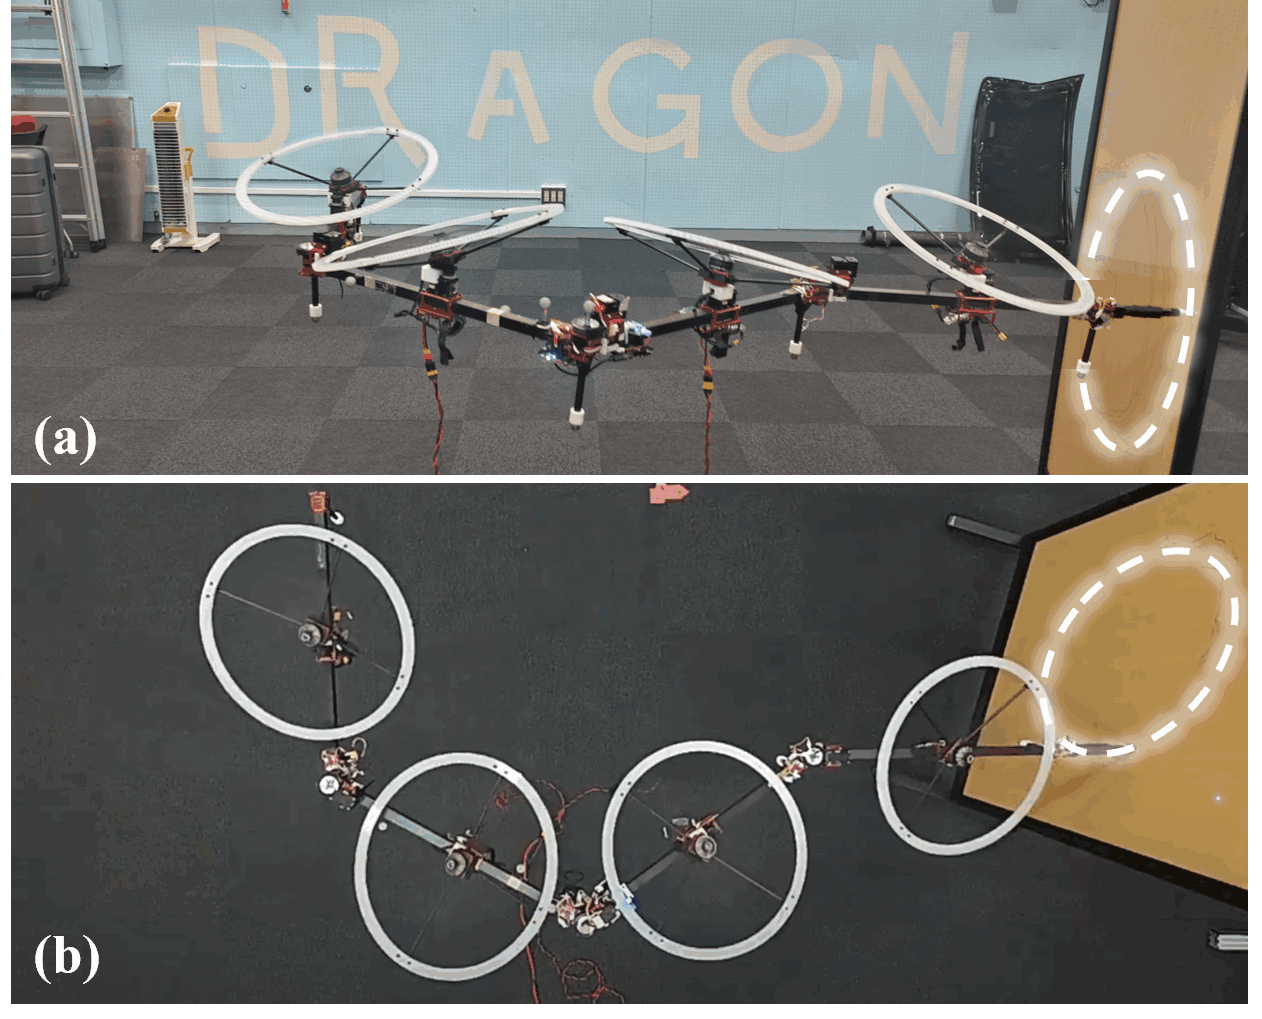
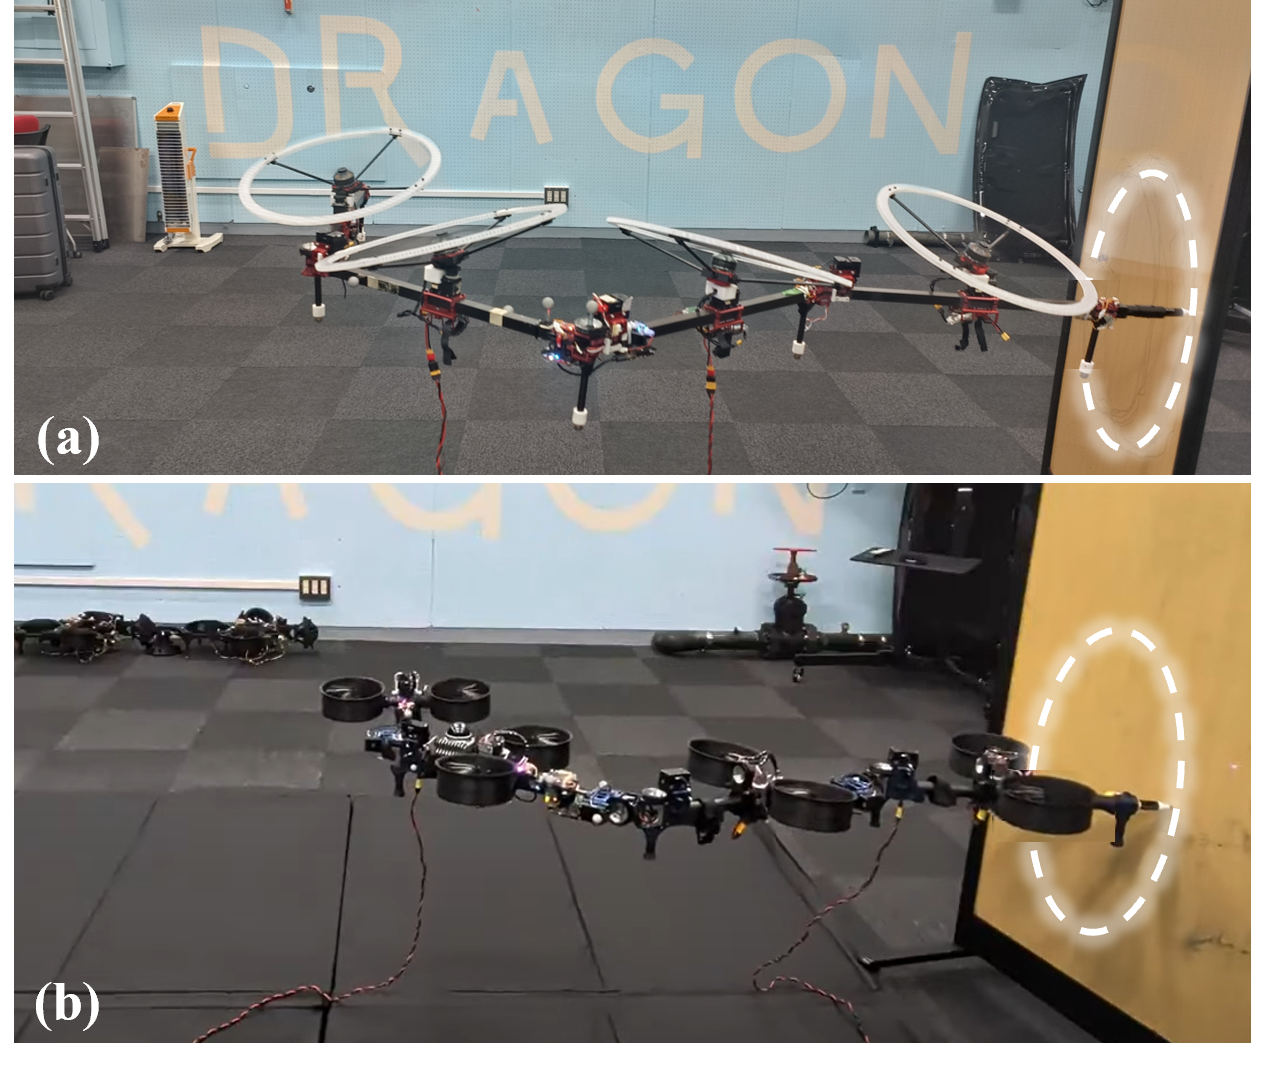
Upload some figures

diff --git a/6_experiment.tex b/6_experiment.tex
@@ -6,7 +6,7 @@ In this chapter, we will demonstrate the effects of the proposed framework. In o
 \subsection{2D Multi-Link aerial robot Hydrus Xi}
 In the experiment, we use the robot show in Fig.~\ref{fig:robot_hydrus}. The robot consists of 4 links.
 
-\begin{figure}[t]
+\begin{figure}[h]
     \centering
     \includegraphics[trim={0cm 1cm 0cm 0cm}, clip, width=\linewidth]{figures/chapter6/robot_hydrus.png}
     \caption{The mechanical design of the 2D multi-link aerial robot Hydrus. (a) Whole mechanical structure. (b) End-effector. (c) Propeller vectoring module. (d) Joint module.}
@@ -29,26 +29,37 @@ The admittance mass $m_a$ is chosen depend on the sliding speed. If the sliding 
 The admittance damping $c_a$ is usually chosen depend on the other two parameters. we usually will set the damping rate $\zeta=\frac{c_a}{2\sqrt{m_ak_a}}$ a bit less than $1$ to make sure the performance is around critical damping.
 
 \subsection{Free flight parameter adjustment}
-In this section, we will show the free flight effect after tuning the parameters. Fig.~\ref{fig:free_flight_plot}.  shows the result. The robot is set at configuration that Fig. showed. We set the $x$, $y$, $z$ and $yaw$ axes. The effect in $z$ and $yaw$ shows well, but the performance of $x$ and $y$ is not so good. But it is hard to develop. The parameters are shown in the following Table \ref{tb:params1}.
+In this section, we will show the free flight effect after tuning the parameters. Fig.~\ref{fig:free_flight_plot} shows the result. We set the $x$, $y$, $z$ and $yaw$ axes. The effect in $z$ and $yaw$ shows well, but the performance of $x$ and $y$ is not so good. But it is hard to develop. The parameters are shown in the following Table \ref{tb:params1}. Note that in this period, we will set the parameter $\mu$ in each axis as $1$ so that the impedance controller will reduce to a PD controller, and we will not use admittance controller in this experiment.
 
-% \begin{table}[H]
-% 	\centering
-% 	\caption{Parameters of free flight.}
-% 	\begin{tabular}{l c c}\hline
-% 		 \toprule
-%         Name & Notation & Value \\
-%         \midrule
-%         p & $k_{pxy}$ & $2.5$ \\
-%         Maximum width  & $k_{px}$  & mm \\
-%         Maximum height & 128 & mm \\
-%         Total mass     & 2050 & g \\
-%         \bottomrule
-% 	\label{tb:params1}
-% 	\end{tabular}
-% \end{table}
+\begin{table}[H]
+    \centering
+    \caption{Parameters of free flight.}
+    \label{tb:params1}
+    \begin{tabular}{lcc}
+        \hline
+        Name & Notation & Value \\
+        \hline
+        XY stiffness & $k_{pxy}$ & 2.5 \\
+        Z stifness & $k_{pz}$ & 1.5 \\
+        RP stiffness & $k_{prollpitch}$ & 40 \\
+        Yaw stiffness & $k_{pyaw}$ & 10 \\
+        XY damping ratio & $\zeta_{xy}$ & 0.6 \\
+        Z damping ratio & $\zeta_{xy}$ & 0.7 \\
+        RP damping ratio & $\zeta_{xy}$ & 1.1 \\
+        Yaw damping ratio & $\zeta_{xy}$ & 0.8 \\
+        \hline
+    \end{tabular}
+\end{table}
+
+Here the parameter is given by damping ratio insteand of damping. We can calculate the damping parameter in each axis by \ref{eq:damping rate}
+\begin{equation}
+\label{eq:damping rate}
+c=2\zeta k^{\frac{1}{2}},
+\end{equation}
+where $c$ represents the damping, $k$ the stiffness, $\zeta$ the damping ratio in each axis. 
 
 
-\begin{figure}[t]
+\begin{figure}[h]
     \centering
     \includegraphics[trim={0cm 1cm 0cm 0cm}, clip, width=\linewidth]{figures/chapter6/free_flight_plot.png}
     \caption{Free flight of Hydrus Xi. The parameters are well tuned in the free flight. All is set to $1$ so that the controller can be considered as PD controller.}
@@ -58,68 +69,67 @@ In this section, we will show the free flight effect after tuning the parameters
 
 
 \subsection{Impedance control parameter adjustment}
-In this section, we will do a small experiment to valid the ability of impedance control. We can demonstrate that by varifying the parameter $\mu$, the performance of multi-link aerial robot will become different.
+In this section, we will do a experiment to valid the ability of impedance control. We can demonstrate that by varifying the parameter $\mu$, the performance of multi-link aerial robot will become different.
 
 
-In this experiment, we use a rope to horizontally drag the multi-link aerial robot in order to imitate the horizontal external force. The dragging direction is set in X axis as shown in Fig.\ref{fig:drag}. The other parameters are shown in the following Table \ref{tb:params2}.
+In this experiment, we use a rope to horizontally drag the multi-link aerial robot in order to imitate the horizontal external force. The dragging direction is set in X axis as shown in Fig.\ref{fig:imp_drag}. The other parameters is as the same with the former experiment, refer to Table \ref{tb:params1}.
 
-Here we choose three different $\mu=0.5, 1, 2$, and measure the estimated external force in X axis and the corresponding CoG displacement in X axis. The result is shown in Fig. \ref{fig:drag_plot}.
+Here we choose three different $\mu=0.5, 1, 2$, and measure the estimated external force in $x$ axis and the corresponding CoG displacement in $x$ axis. The result is shown in Fig. \ref{fig:drag_plot}. In the analysis in Sec, when $\mu$ is larger than $1$, the system can be considered as a rigid system. On the other hand,  when $\mu$ is smaller than $1$, the system can be considered as a soft system.
 
-\begin{table}[H]
-	\centering
-	\caption{Parameters.}
-	\begin{tabular}{ll}\hline
-		 訓練データの正答率&: $98\%$ \\
-		 テストデータの正答率&: $88\%$ \\
-	\label{tb:params2}
-	\end{tabular}
-\end{table}
+As illustrated in Fig.\ref{fig:imp_drag}, the impedance could the dynamic performance. The figure shows the relationship between the external force and the positon movement in the same direction.
 
-\begin{figure}[t]
+
+\begin{figure}[h]
     \centering
-    \includegraphics[trim={0cm 1cm 0cm 0cm}, clip, width=\linewidth]{figures/chapter3/drag.png}
-    \caption{}
+    \includegraphics[trim={0cm 0cm 0cm 0cm}, clip, width=\linewidth]{figures/chapter6/imp_drag.png}
+    \caption{The multi-link aerial robot is dragged by a rope to simulate the external force on a single direction. The aerial robot move in order to generate enough consistant force.}
     \label{fig:drag}
-    \vspace{-5mm}
+
+\end{figure}
+
+\begin{figure}[h]
+    \centering
+    \includegraphics[trim={0cm 0cm 0cm 0cm}, clip, width=\linewidth]{figures/chapter6/imp_drag_result.png}
+    \caption{The result of the dragging experiment. (a) $\mu = 2$. (b) $\mu = 1$. (c) $\mu = 0.5$.}
+    \label{fig:imp_drag_result}
 \end{figure}
 
 \begin{figure}[t]
     \centering
-    \includegraphics[trim={0cm 1cm 0cm 0cm}, clip, width=\linewidth]{figures/chapter6/admittance_plot.png}
-    \caption{}
-    \label{fig:drag_plot}
-    \vspace{-5mm}
+    \includegraphics[trim={0cm 0cm 0cm 0cm}, clip, width=\linewidth]{figures/chapter6/imp_drag_plot.png}
+    \caption{The result of the dragging experiment. (a) rigid case ($\mu = 2$). (b) normal case ($\mu = 1$). (c) soft case ($\mu = 0.5$).}
+    \label{fig:imp_drag_plot}
 \end{figure}
 
-The result shows that the stiffness can be regarded as the tangential of the force-displacement figure. Apparently, the stiffness from low to high is $\mu=0.5, 1,2$.
+The result shows that the stiffness can be regarded as the tangential of the force-displacement figure. Apparently, the stiffness from low to high is $\mu=0.5, 1,2$. As shown in the trend line, the tengential of the three cases are $14$, $8$, $4$, respectivelt. It demostrates that by varying the parameter $\mu$, the aerial robot could change its performance. Therefore, according to the experiment's situation and task requirement, we can choose suitable parameter.
 
-\subsection{Admittance control parameters adjustment}
+% \subsection{Admittance control parameters adjustment}
 
-In this section, we will do a small experiment to valid the ability of admittance control. 
-In this experiment, we use a rope to horizontally drag the multi-link aerial robot in order to imitate the horizontal external force. The dragging direction is similar to the impedance part. The other parameters are shown in the following Table \ref{tb:params3}.
+% In this section, we will do a small experiment to valid the ability of admittance control. 
+% In this experiment, we use a rope to horizontally drag the multi-link aerial robot in order to imitate the horizontal external force. The dragging direction is similar to the impedance part. The other parameters are shown in the following Table \ref{tb:params3}.
 
-Here we measure the estimated external force in X axis and the corresponding displacement in X axis. The result is shown in Fig.\ref{fig:drag_plot2}.
+% Here we measure the estimated external force in X axis and the corresponding displacement in X axis. The result is shown in Fig.\ref{fig:drag_plot2}.
 
-\begin{table}[H]
-	\centering
-	\caption{Parameters.}
-	\begin{tabular}{ll}\hline
-		 訓練データの正答率&: $98\%$ \\
-		 テストデータの正答率&: $88\%$ \\
-	\label{tb:params1}
-	\end{tabular}
-\end{table}
+% \begin{table}[H]
+% 	\centering
+% 	\caption{Parameters.}
+% 	\begin{tabular}{ll}\hline
+% 		 訓練データの正答率&: $98\%$ \\
+% 		 テストデータの正答率&: $88\%$ \\
+% 	\label{tb:params1}
+% 	\end{tabular}
+% \end{table}
 
 
-\begin{figure}[t]
-    \centering
-    \includegraphics[trim={0cm 1cm 0cm 0cm}, clip, width=\linewidth]{figures/chapter6/admittance_plot.png}
-    \caption{}
-    \label{fig:drag_plot2}
-    \vspace{-5mm}
-\end{figure}
+% \begin{figure}[t]
+%     \centering
+%     \includegraphics[trim={0cm 1cm 0cm 0cm}, clip, width=\linewidth]{figures/chapter6/admittance_plot.png}
+%     \caption{}
+%     \label{fig:drag_plot2}
+%     \vspace{-5mm}
+% \end{figure}
 
-The experiment result varify that the distance between CoG and end-effector can change with the external force. By setting parameters like this, we can guarantee stability and response speed, simultaneously
+% The experiment result varify that the distance between CoG and end-effector can change with the external force. By setting parameters like this, we can guarantee stability and response speed, simultaneously
 % \subsection{Hybrid control}
 % In this section, we show that the hybrid impedance-admittance controller can be used in the multi-link aerial robot. As shown in Fig.\ref{fig:hybrid_showing}, the robot realize consist to the friction and adapt to the surface variation, simultaneously.
 
@@ -137,15 +147,33 @@ The experiment result varify that the distance between CoG and end-effector can 
 \subsection{Experimental Setup}
 Experiments are conducted using the multi-link aerial robot shown in Fig.~\ref{fig:robot}. The platform is equipped with an UP-Board single-board computer featuring an Intel Atom x5-Z8350 CPU, and the Robot Operating System (ROS) is utilized for communication. A motion capture system provides the full state of the robot throughout the experiments. A marker pen is attached to link 4 as shown in Fig.~\ref{fig:admittance control} and serves as the end-effector for maintaining contact with the environment.
 
-The actual experimental parameters are as follows. The estimator translation and rotation gain matrices are given by $\boldsymbol{K}_{ti}=diag(3.0, 3.0, 3.0)$ and $\boldsymbol{K}_{ri}=diag(1.0, 1.0, 1.0)$. We treat $\boldsymbol{M}_d/m$ and $\boldsymbol{I}_d\boldsymbol{I}^{-1}$ as entities. Their values are set to $\boldsymbol{M}_d/m=diag(1.0, 3.0, 1.0)$, $\boldsymbol{I}_d\boldsymbol{I}^{-1}=diag(10.0, 10.0, 5.0)$. By choosing these values greater than $1$, the impedance controller exhibits more resilient behavior against environmental disturbances due to the increased designed stiffness. The normalized linear stiffness and rotational stiffness are given by $\tilde{\boldsymbol{K}}_{td} = diag(2.5, 2.5, 1.5)$, $\tilde{\boldsymbol{K}}_{rd} = diag(40.0, 40.0, 10.0)$. The normalized linear and rotational damping terms are not directly specified. Instead, we define the linear damping ratio $\boldsymbol{Z}_{td}=diag(0.6, 0.6, 0.7)$ and the rotational damping ratio $\boldsymbol{Z}_{rd}=diag(1.1, 1.1, 0.8)$, and compute the corresponding normalized damping matrices as follows:
-\begin{subequations}
-\label{eq:damping rate}
-\begin{align}
-\tilde{\boldsymbol{C}}_{td}&=2\boldsymbol{Z}_{td}\tilde{\boldsymbol{K}}^{\frac{1}{2}}_{td}, \\[2pt]
-\tilde{\boldsymbol{C}}_{rd}&=2\boldsymbol{Z}_{rd}\tilde{\boldsymbol{K}}^{\frac{1}{2}}_{rd}.
-\end{align}
-\end{subequations}
-The admittance mass, damping and stiffness are given by $m_a=40\,\mathrm{kg}$, $c_a=55\,\mathrm{N\cdot s/m}$ and $k_a=16\,\mathrm{N/m}$. The reference external force is given by $f_{ref,x} = 0$.
+The actual experimental parameters are also same as the Table\ref{tb:params1}. Note that in $x$ axis, $\mu$ is chosen as $1$ so the impedance controller only performs PD part in this direction. Meanwhile, the admittance controller is only acting at $x$ axis. 
+as follows. The estimator translation and rotation gain matrices are given by $\boldsymbol{K}_{ti}=diag(3.0, 3.0, 3.0)$ and $\boldsymbol{K}_{ri}=diag(1.0, 1.0, 1.0)$. We treat $\boldsymbol{M}_d/m$ and $\boldsymbol{I}_d\boldsymbol{I}^{-1}$ as entities. Their values are set to $\boldsymbol{M}_d/m=diag(1.0, 3.0, 1.0)$, $\boldsymbol{I}_d\boldsymbol{I}^{-1}=diag(10.0, 10.0, 5.0)$. By choosing these values greater than $1$, the impedance controller exhibits more resilient behavior against environmental disturbances due to the increased designed stiffness. The normalized linear stiffness and rotational stiffness are given by $\tilde{\boldsymbol{K}}_{td} = diag(2.5, 2.5, 1.5)$, $\tilde{\boldsymbol{K}}_{rd} = diag(40.0, 40.0, 10.0)$. The normalized linear and rotational damping terms are not directly specified. Instead, we define the linear damping ratio $\boldsymbol{Z}_{td}=diag(0.6, 0.6, 0.7)$ and the rotational damping ratio $\boldsymbol{Z}_{rd}=diag(1.1, 1.1, 0.8)$, and compute the corresponding normalized damping matrices as follows:
+
+The reference external force used in admittance controller is given by $f_{ref,x} = 0$.
+
+\begin{table}[H]
+    \centering
+    \caption{Parameters of free flight.}
+    \label{tb:params4}
+    \begin{tabular}{lcc}
+        \hline
+        Name & Notation & Value \\
+        \hline
+
+        Linear mass ratio matrix & $\boldsymbol{M}_d/m$ & diag(1.0, 3.0, 1.0) \\
+        Y mass ratio & $/mu_{y}$ & diag(10.0, 10.0, 5.0) \\
+        Z mass ratio & $/mu_{z}$ & 1.0 \\
+        Roll mass ratio & $/mu_{x}$ & 1.0 \\
+        Pitch mass ratio & $/mu_{y}$ & 3.0 \\
+        Yaw mass ratio & $/mu_{z}$ & 1.0 \\
+        Admittance mass & $m_a$ & 40 \\
+        Admittance damping & $c_a$ & 55 \\
+        Admittance stiffness & $k_a$ & 16 \\
+        \hline
+    \end{tabular}
+\end{table}
+
 \begin{figure}[t]
      \centering
     % \parbox{3in}
@@ -239,6 +267,15 @@ This part of the experiments shows that along the sliding directions, impedance 
 
 \begin{figure}[t]
     \centerline{\includegraphics[trim=0 0 0 0,clip,width=\linewidth]
+    {figures/chapter6/trajectory_plot.png}}
+    \vspace*{-3mm}
+    \caption{Circle trajectory tracking result of the CoG under four controllers. (a) PID controller. (b) Only impedance controller. (c) Only admittance controller. (d) Hybrid impedance-admittance controller. The yellow region denotes the contacting period. }
+    \label{fig:trajectory_plot}
+    \vspace{-7mm}
+\end{figure}
+
+\begin{figure}[t]
+    \centerline{\includegraphics[trim=0 0 0 0,clip,width=\linewidth]
     {figures/chapter6/box_position.png}}
     \vspace*{-3mm}
     \caption{Box plots of position errors along the sliding directions (the $y$ and $z$ axes) under the four controllers during the contact period.}
@@ -274,7 +311,23 @@ These improvements demonstrate that the admittance controller enables the robot 
 
 \subsection{Compare on All Directions}
 Table shows the data of the four controllers. The hybrid controller get the best performance.
-Fig.~\ref{fig:admittance_plot} shows the CoG displacement error compares with the tracking error in y axis.
+Table.~\ref{tb:hybrid} shows the CoG displacement error compares with the tracking error in y axis. We can see that in each, the hybrid controller performs as good as the only impedance controller or the only admittance controller. However, if we consider all the factor, the hybrid controller can achieve small CoG movement,simutenally. Therefore, the 
+
+\begin{table}[H]
+    \centering
+    \caption{Parameters of free flight.}
+    \label{tb:hybrid}
+    \begin{tabular}{|l|c|c|c|c|}
+        \hline
+        & PD & Impedance & Admittance & Hybrid \\
+        \hline
+        Y position error & $0.134\mathrm{m}$ & \textcolor{red}{$0.079\mathrm{m}$} &$0.105\mathrm{m}$ & \textcolor{brown}{$0.083\mathrm{m}$} \\
+        Z position error & $0.026\mathrm{m}$ & \textcolor{brown}{$0.021\mathrm{m}$} & $0.024\mathrm{m}$ & \textcolor{red}{$0.020\mathrm{m}$} \\
+        X displacement & $0.133\mathrm{m}$ & $0.137\mathrm{m}$ & \textcolor{brown}{$0.088\mathrm{m}$} & \textcolor{red}{$0.084\mathrm{m}$} \\
+        X external & $-1.190\mathrm{N}$ & \textcolor{brown}{$-0.453\mathrm{N}$} & $-0.712\mathrm{N}$ & \textcolor{red}{$-0.328\mathrm{N}$} \\
+        \hline
+    \end{tabular}
+\end{table}
 
 \subsection{Section summary}
 The experiment highlights the complementary roles of the two strategies: impedance control improves sliding smoothness and reduces tracking error, whereas admittance control enhances adaptive interaction by decreasing both displacement and contact forces. Since neither only impedance controller nor only admittance controller alone can achieve both behaviors, the hybrid controller yields smaller trajectory deviations, reduced unintended CoG drift, and lower interaction forces compared with the baseline PID controller, confirming its effectiveness for compliant contact-rich tasks.
@@ -305,16 +358,16 @@ Experiments are conducted using the multi-link aerial robot shown in Fig.~\ref{f
 
 As shown in Fig.~\ref{fig:admittance control}, the robot started from its nominal configuration. Throughout the experiment, a constant yaw angle was commanded, implemented by keeping link 4 aligned with the $x$ axis in order to reduce external torque applied on the CoG. 
 
-During the experiment, the reference trajectory of the end effector of multi-link aerial robot was defined on a plane perpendicular to the $x$ axis. The robot was commanded to follow the predefined circular trajectory with a radius of $0.30\,\mathrm{m}$ and a period of $14\,\mathrm{s}$ within this plane. Due to the board’s unknown inclination angle, the desired circular trajectory experienced approximately $0.15\,\mathrm{m}$ of variation along the $x$ axis during one cycle, introducing measurable geometry-induced deviations during contact. Meanwhile, the base link is set to stay at a static point in the frame of $\{W\}$. This geometric variation was not incorporated into the reference trajectory generation or controller design. Therefore, the robot was required to adapt to this geometric variation online during contact. It can be considered that the prior frame is requested to draw a circle in the board, and the secondary frame is requested to keep static in the air. Due to the designed trajectory of the secondary frame is a static point, the prior trajectory is also a circle showed in the secondary frame. In detail, the trajectory function is showed in \ref{eq:circle equation}:
+During the experiment, the reference trajectory of the end effector of multi-link aerial robot was defined on a plane perpendicular to the $x$ axis. The robot was commanded to follow the predefined circular trajectory with a radius of $0.30\,\mathrm{m}$ and a period of $14\,\mathrm{s}$ within this plane. Due to the board's unknown inclination angle, the desired circular trajectory experienced approximately $0.15\,\mathrm{m}$ of variation along the $x$ axis during one cycle, introducing measurable geometry-induced deviations during contact. Meanwhile, the base link is set to stay at a static point in the frame of $\{W\}$. This geometric variation was not incorporated into the reference trajectory generation or controller design. Therefore, the robot was required to adapt to this geometric variation online during contact. It can be considered that the prior frame is requested to draw a circle in the board, and the secondary frame is requested to keep static in the air. Due to the designed trajectory of the secondary frame is a static point, the prior trajectory is also a circle showed in the secondary frame. In detail, the trajectory function is showed in \ref{eq:circle equation}:
 
-\begin{subequations}
-\label{eq:circle equation}
-\begin{align}
-    x(t)&=sin(2\pi t), \\[2pt]
-    y(t)&=1.037, \\[2pt]
-    z(t)&=cos(2\pi t), 
-\end{align}
-\end{subequations}
+% \begin{subequations}
+% \label{eq:circle equation}
+% \begin{align}
+%     x(t)&=sin(2\pi t), \\[2pt]
+%     y(t)&=1.037, \\[2pt]
+%     z(t)&=cos(2\pi t), 
+% \end{align}
+% \end{subequations}
 and the orientation is required to stay at the initial rotation angle to keep the link4 be vertical with the $y-z$ plane.
 %%%%%%%%%%%%%%%%%%%%%%%%%%%%%%%%%%%%%%%%%%%%%%%%%%%%%%%%%%%%%%%%%%%%%%%%%%%%%%%%
 \section{Summary}

diff --git a/thesis.tex b/thesis.tex
@@ -10,6 +10,7 @@
 \usepackage{here}
 \usepackage[dvipdfmx]{graphicx}
 \usepackage[ms]{pxchfon}
+\usepackage{xcolor}
 \setminchofont{:0:msmincho.ttc}
 \setgothicfont{:0:msgothic.ttc}
 \DeclareUnicodeCharacter{92EE}{\char"92EE}
